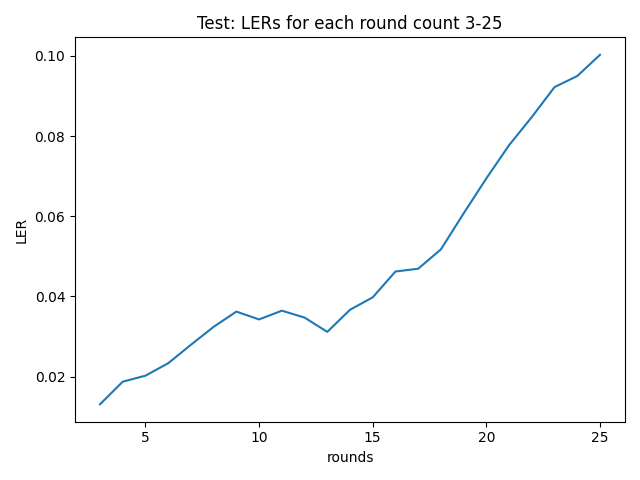
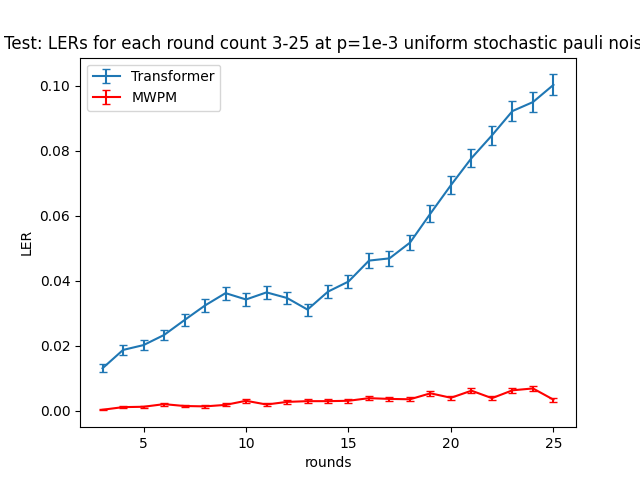
test script with MWPM comparison and error bars. we are cooked asf

diff --git a/code/pipeline/test.py b/code/pipeline/test.py
@@ -4,8 +4,12 @@ from pipeline.stim_preprocessing import load_tokens
 from pipeline.config import load_config
 import matplotlib.pyplot as plt
 from pathlib import Path
+import stim
+import numpy as np
+from pymatching import Matching
 
 def test():
+    DATASET = Path("pipeline/data/2026-11-17_144943")
     MODEL_PATH = "pipeline/data/train/2026-11-17_145425/model"
     device = "cuda" if torch.cuda.is_available() else "cpu"
     checkpoint = torch.load(MODEL_PATH, map_location=device)
@@ -23,22 +27,39 @@ def test():
     model.eval()
 
     lers = []
+    mwpm_lers = []
+    ns = []
     for r in range(3, 26):
-        X, y = load_tokens("pipeline/data/2026-11-17_144943", "test", r)
+        # transformer test
+        X, y = load_tokens(DATASET, "test", r)
         X, y = X.to(device), y.to(device)
         with torch.no_grad():
             logits = model(X)
             preds = (logits > 0).float()
             ler = (preds != y).float().mean() 
             lers.append(ler.item())
-            print(f"TEST: r={r}, LER={ler:.4f}")
 
+        # MWPM comparison
+        dem = stim.DetectorErrorModel.from_file(DATASET / "circuits" / f"r{r:03d}.dem")
+        f = np.load(DATASET / "test" / f"r{r:03d}.npz")
+        pred = Matching.from_detector_error_model(dem).decode_batch(f["dets"])
+        mwpm_ler = (pred[:, 0] != f["obs"][:, 0]).mean()
+        mwpm_lers.append(mwpm_ler)
+        print(f"r={3} | TRANSFORMER={ler:.4f}, MWPM={mwpm_ler:.4f}")
+        ns.append(len(y))
+
+    # function to take standard error of logical error rate over n shots. p=LER n=num_shots at given r
+    def se(p, n):
+        p, n = np.asarray(p), np.asarray(n)
+        return np.sqrt(p * (1 - p) / n)
+    
     fig, ax = plt.subplots()
-    ax.plot(range(3, 26), lers)
-    plt.title("Test: LERs for each round count 3-25")
+    ax.errorbar(range(3, 26), lers, yerr=se(lers, ns), capsize=3, label="Transformer")
+    ax.errorbar(range(3, 26), mwpm_lers, yerr=se(mwpm_lers, ns), capsize=3, label="MWPM", color='r')
+    ax.legend()
+    plt.title("Test: LERs for each round count 3-25 at p=1e-3 uniform stochastic pauli noise")
     plt.xlabel("rounds")
     plt.ylabel("LER")
-    fig.tight_layout()
     path = Path("train_plots/2026-11-17_145514/test.png")
     fig.savefig(path)
     print(f"Saved plot to {path}")
